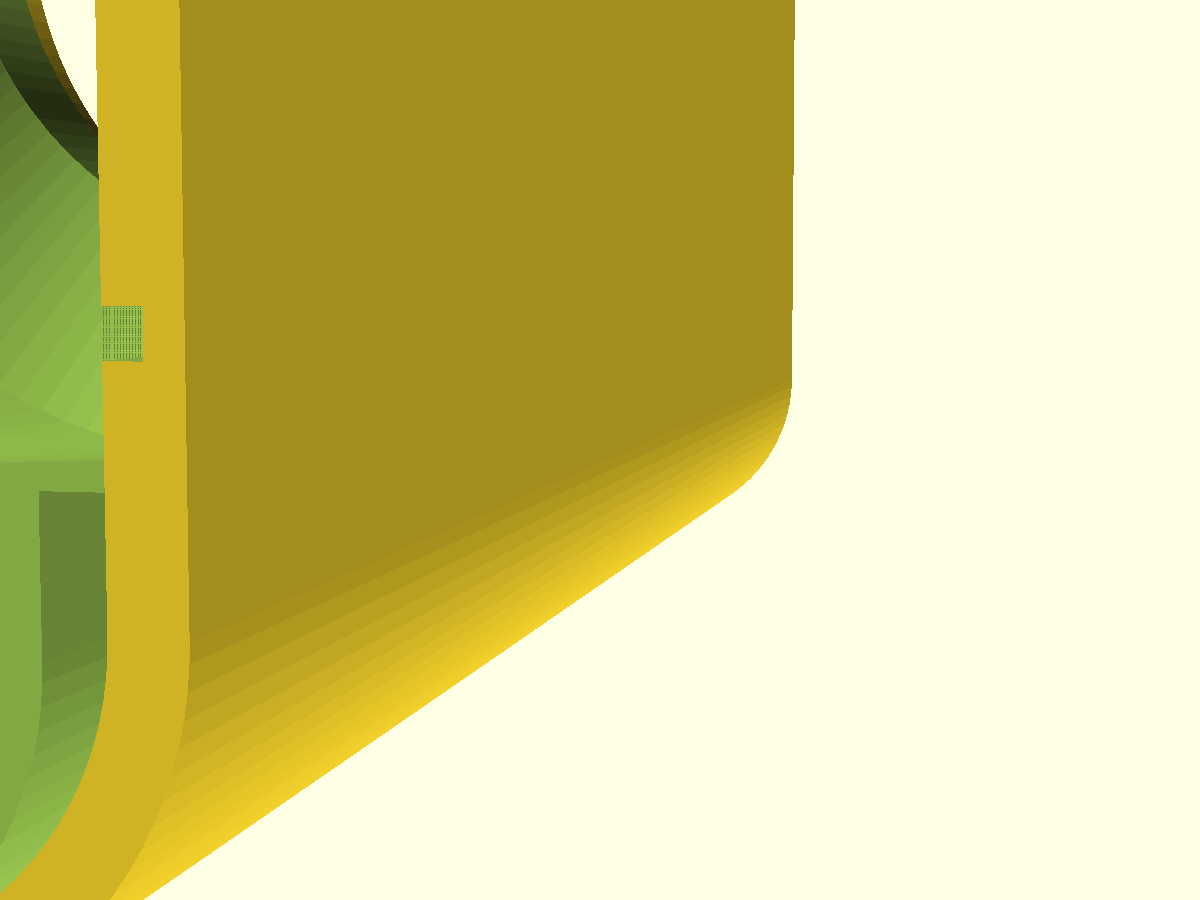
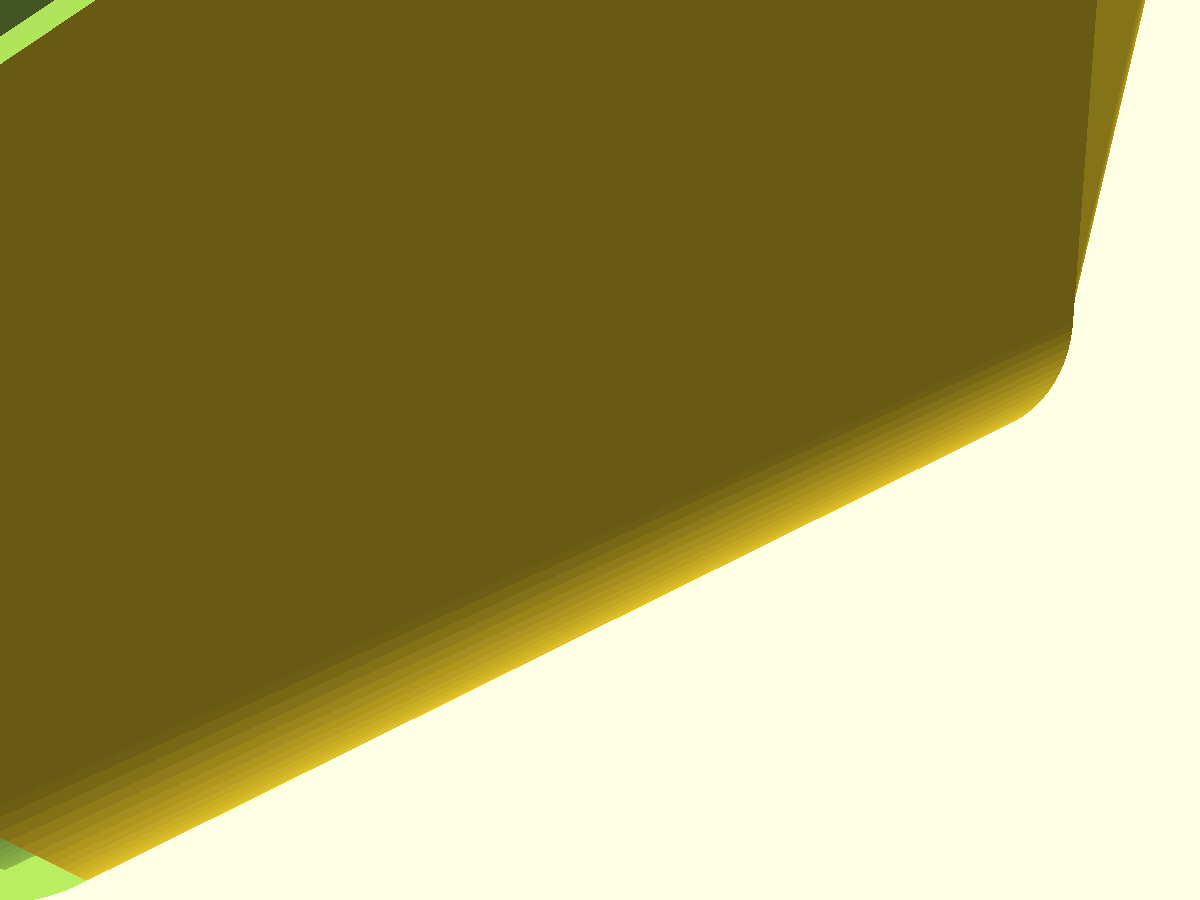
nuggs-sand-bath: fold PM triage act-now (fill-line nudge + docs)
Last bounded fill-line camera nudge (~25–30° off wall normal; hero
untouched). Local check: nick still unread — concede path recorded in
NOTES/PM (rim-relative primary; no further camera thrash; no embed).
Docs: drop coupon groove-legibility parenthetical, sweep every few days,
hero rake clause. Charter: adjudication decision-log row; FIELD-TEST
rim-watch + lug-grit captures. B5/B6/B7 untouched.

diff --git a/designs/nuggs-sand-bath/README.md b/designs/nuggs-sand-bath/README.md
@@ -16,7 +16,7 @@ run. One printed part, no supports, no hardware.
   inside width, ~245 mL of bathing sand, 18 mm deep)
 - `coupon` — two port stubs to tune the coupling fit *before* the long print
 
-![Use pose — mouth up, port horizontal (preview coloring only — one material)](previews/hero.png)
+![Use pose — mouth up, port horizontal; the rim rakes from the port crown down to a low lip (the vault over the entry), not a warped print (preview coloring only — one material)](previews/hero.png)
 
 ## Print settings
 
@@ -46,8 +46,8 @@ run. One printed part, no supports, no hardware.
 
 `nuggs-sand-bath-coupon.scad` — two bore-clean port stubs (~4.5 h / 60 g; same
 brim as the body). **Print the coupon in the same material you will print the
-bath in** — what the coupon's first 2 mm says about elephant foot (and groove
-legibility) is what the body will do. The two stubs are deliberate: mate them
+bath in** — what the coupon's first 2 mm says about elephant foot is what the
+body will do. The two stubs are deliberate: mate them
 to each other so you can tune the pair without touching the habitat. (If you
 already own a NUGGS module, mating one stub to that works too.) If the stubs'
 first layers mate stiff, dress the tips or enable elephant-foot compensation
@@ -84,7 +84,7 @@ sand sits **15 mm below the low rim** (18 mm above the floor) — that rim-relat
 line is the designed fill; eyeball it from any angle. Confirm with a fingertip
 along either long side wall: a shallow groove (1.2 × 1.5 mm) runs the length of
 both long side walls at that sand line. About 245 mL reaches it. Expect some
-sand out nightly and sweep the port mouth occasionally — that is the hamster
+sand out nightly and sweep the port mouth every few days — that is the hamster
 doing it right, not the design failing (the lip sits only 2 mm above the sand
 line at the port, by the design's own `lip_h − sand_depth ≥ 2` assert); the
 15 mm freeboard catches dig-kick on the trough. **Sift weekly; replace when the

diff --git a/designs/nuggs-sand-bath/NOTES.md b/designs/nuggs-sand-bath/NOTES.md
@@ -272,5 +272,23 @@ mandatory before the full dish.
 *(No entries yet. First FIELD-TEST should capture: (1) groove legibility in
 plastic — empirical close-out of the 1.2 × 1.5 mm resize; (2) PETG-vs-groove —
 does PETG's rounder bead flatten the nick after wash cycles? Drik D12;
-(3) groove-as-gnaw-edge — any chew wear at the sand-line nick; (4) turn-around
-observation — does the animal reverse down the beach tail-first? Drik D4.)*
+(3) groove-as-gnaw-edge **and rim-watch** — any chew wear at the sand-line nick,
+and whether the knife-edge raked rim needs a geometry land after real wear
+(Jane r3/r4: deburr instruction stands until field says otherwise);
+(4) turn-around observation — does the animal reverse down the beach
+tail-first? Drik D4; (5) lug-grit after N weeks — does kicked sand bed into the
+bayonet lug faces and make the quarter-turn feel gritty? Drik 00:36 hunch.)*
+
+## Fill-line preview — one-nudge then concede
+
+PM triage 2026-10-12 (head `c081b578`): Jane r4's read of `fill-line.png`
+governs (committed PNG corroborates — the nick does not read as a fill line).
+Last pre-freeze camera nudge landed in `cameras.conf` (~25–30° off wall
+normal; `hero` frozen untouched). Local verification: OpenSCAD preview still
+does not resolve the 1.2 mm recess as a stranger-readable line under that
+framing (face-on views show no pixel delta for the groove; edge-on only the
+stippled edge patch Jane declined). **Next step if CI regen agrees: concede
+to honest caption** — do not iterate cameras again; rim-relative 15 mm below
+the low rim stays the primary fill instruction; B5's groove-witness coupon
+patch is the plastic proof. Do not embed `fill-line.png` until a regenerated
+shot verifiably shows the nick.

diff --git a/designs/nuggs-sand-bath/previews/CAMERAS.md b/designs/nuggs-sand-bath/previews/CAMERAS.md
@@ -10,4 +10,4 @@ reframe an existing one. Descriptions below say what each shot exists to show.
 | `hero` | `hero` | Use pose (rotate 90° of the same solid): mouth up, port horizontal in the run wall — the bath as mounted at the end of a run, the open trough and its fill line legible from above. |
 | `cutaway` | `cutaway` | Half-section on the run-axis plane (x = 0), cut face to camera: bore at the bottom, the 42.27° beach ramp up to the flat sand floor, the sloped far wall rising to the rim. Full `render` (CGAL) so the section face is solid. |
 | `print-pose` | `body` | The body as it stands on the bed, from below: port-down on the three sector tips, both staged widening skirts (tube → circle → dish) visible between the tube and the trough. The bed-contact and support picture (see NOTES.md, Print settings). |
-| `fill-line` | `hero` | Close-up of one long interior trough wall, edge-on at ~half the prior distance: the 1.2 × 1.5 mm fill-line witness groove at the sand plane throws a shadow, with the floor-to-wall junction in frame. Reframes authorized pre-freeze (Jane + Drik on PR #674) — does **not** reframe `hero`. |
+| `fill-line` | `hero` | Close-up of one long interior trough wall at ~25–30° off the wall normal (last pre-freeze nudge, PM triage 2026-10-12): floor-to-wall junction and one interior corner anchored so the 1.2 × 1.5 mm fill-line nick can catch a directional shadow. Still unfrozen; `hero` untouched. If the regenerated shot still does not read the nick, next step is concede-to-honest-caption (rim-relative 15 mm line already primary) — do not keep iterating cameras. |

diff --git a/designs/nuggs-sand-bath/PM.md b/designs/nuggs-sand-bath/PM.md
@@ -101,3 +101,4 @@ render and the stranger's decision.
 | 2026-10-11 | `fill-line` camera reframed pre-freeze | Both reviewers authorized: ~half distance, wall edge-on so the nick throws a shadow, floor-to-wall junction in frame; `hero` untouched. |
 | 2026-10-11 | Fill emphasis flipped rim-relative-primary | Drik D10: mid-pour the groove is a fingertip feature; page now leads with "15 mm below the low rim" and the groove as tactile confirmation along both long side walls. |
 | 2026-10-11 | B5 promoted #2, re-scoped | Single-stub override + groove-witness patch (Jane 1b + Drik D11); B7 proposed (ci.cog advisory); B6 gains hero-wide companion. |
+| 2026-10-12 | Fill-line image adjudication + one-nudge bound | Jane r4 `[saw-it]` (nick still unread in `fill-line.png`) vs Drik 00:36 `[used-it]` (shadow visible). Committed PNG at `c081b578` corroborates Jane — interior wall featureless; stippled mid-wall patch is not a readable fill line. One last unfrozen `fill-line` camera nudge (~25–30° off wall normal, floor junction + interior corner anchored; `hero` untouched). **Bound:** if the regen still does not read, concede — do not iterate cameras further; rim-relative 15 mm line stays primary (README); B5 groove-witness patch carries the plastic proof. Embed of `fill-line.png` stays declined until a shot verifiably shows the nick. |
